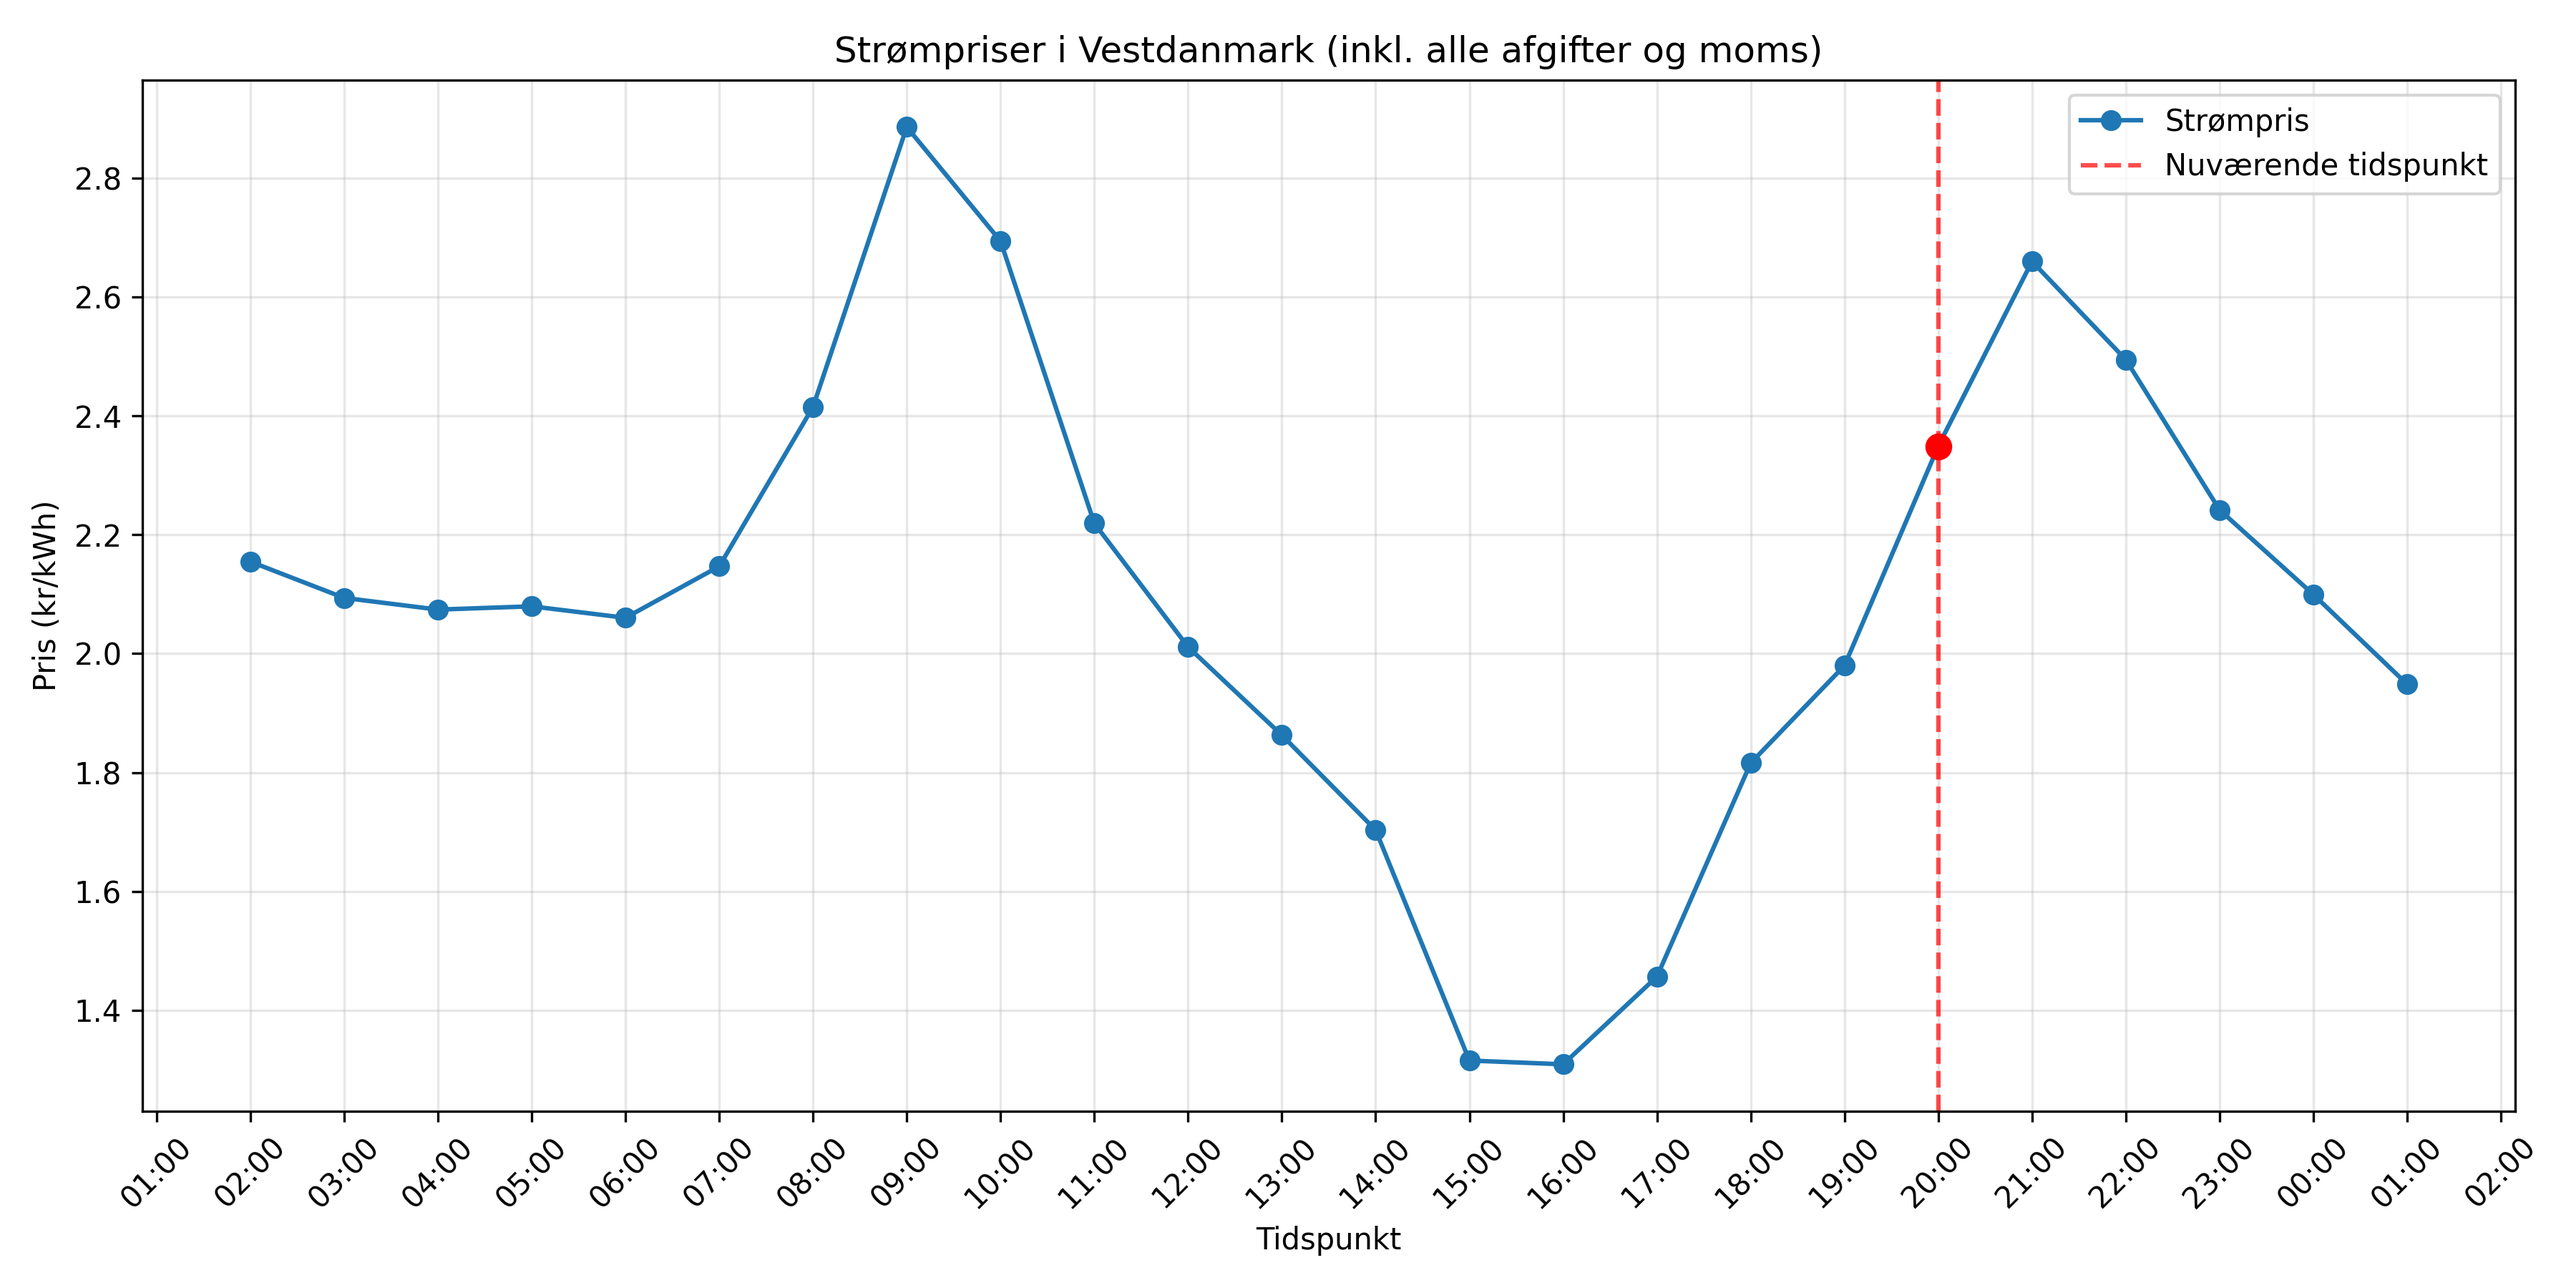
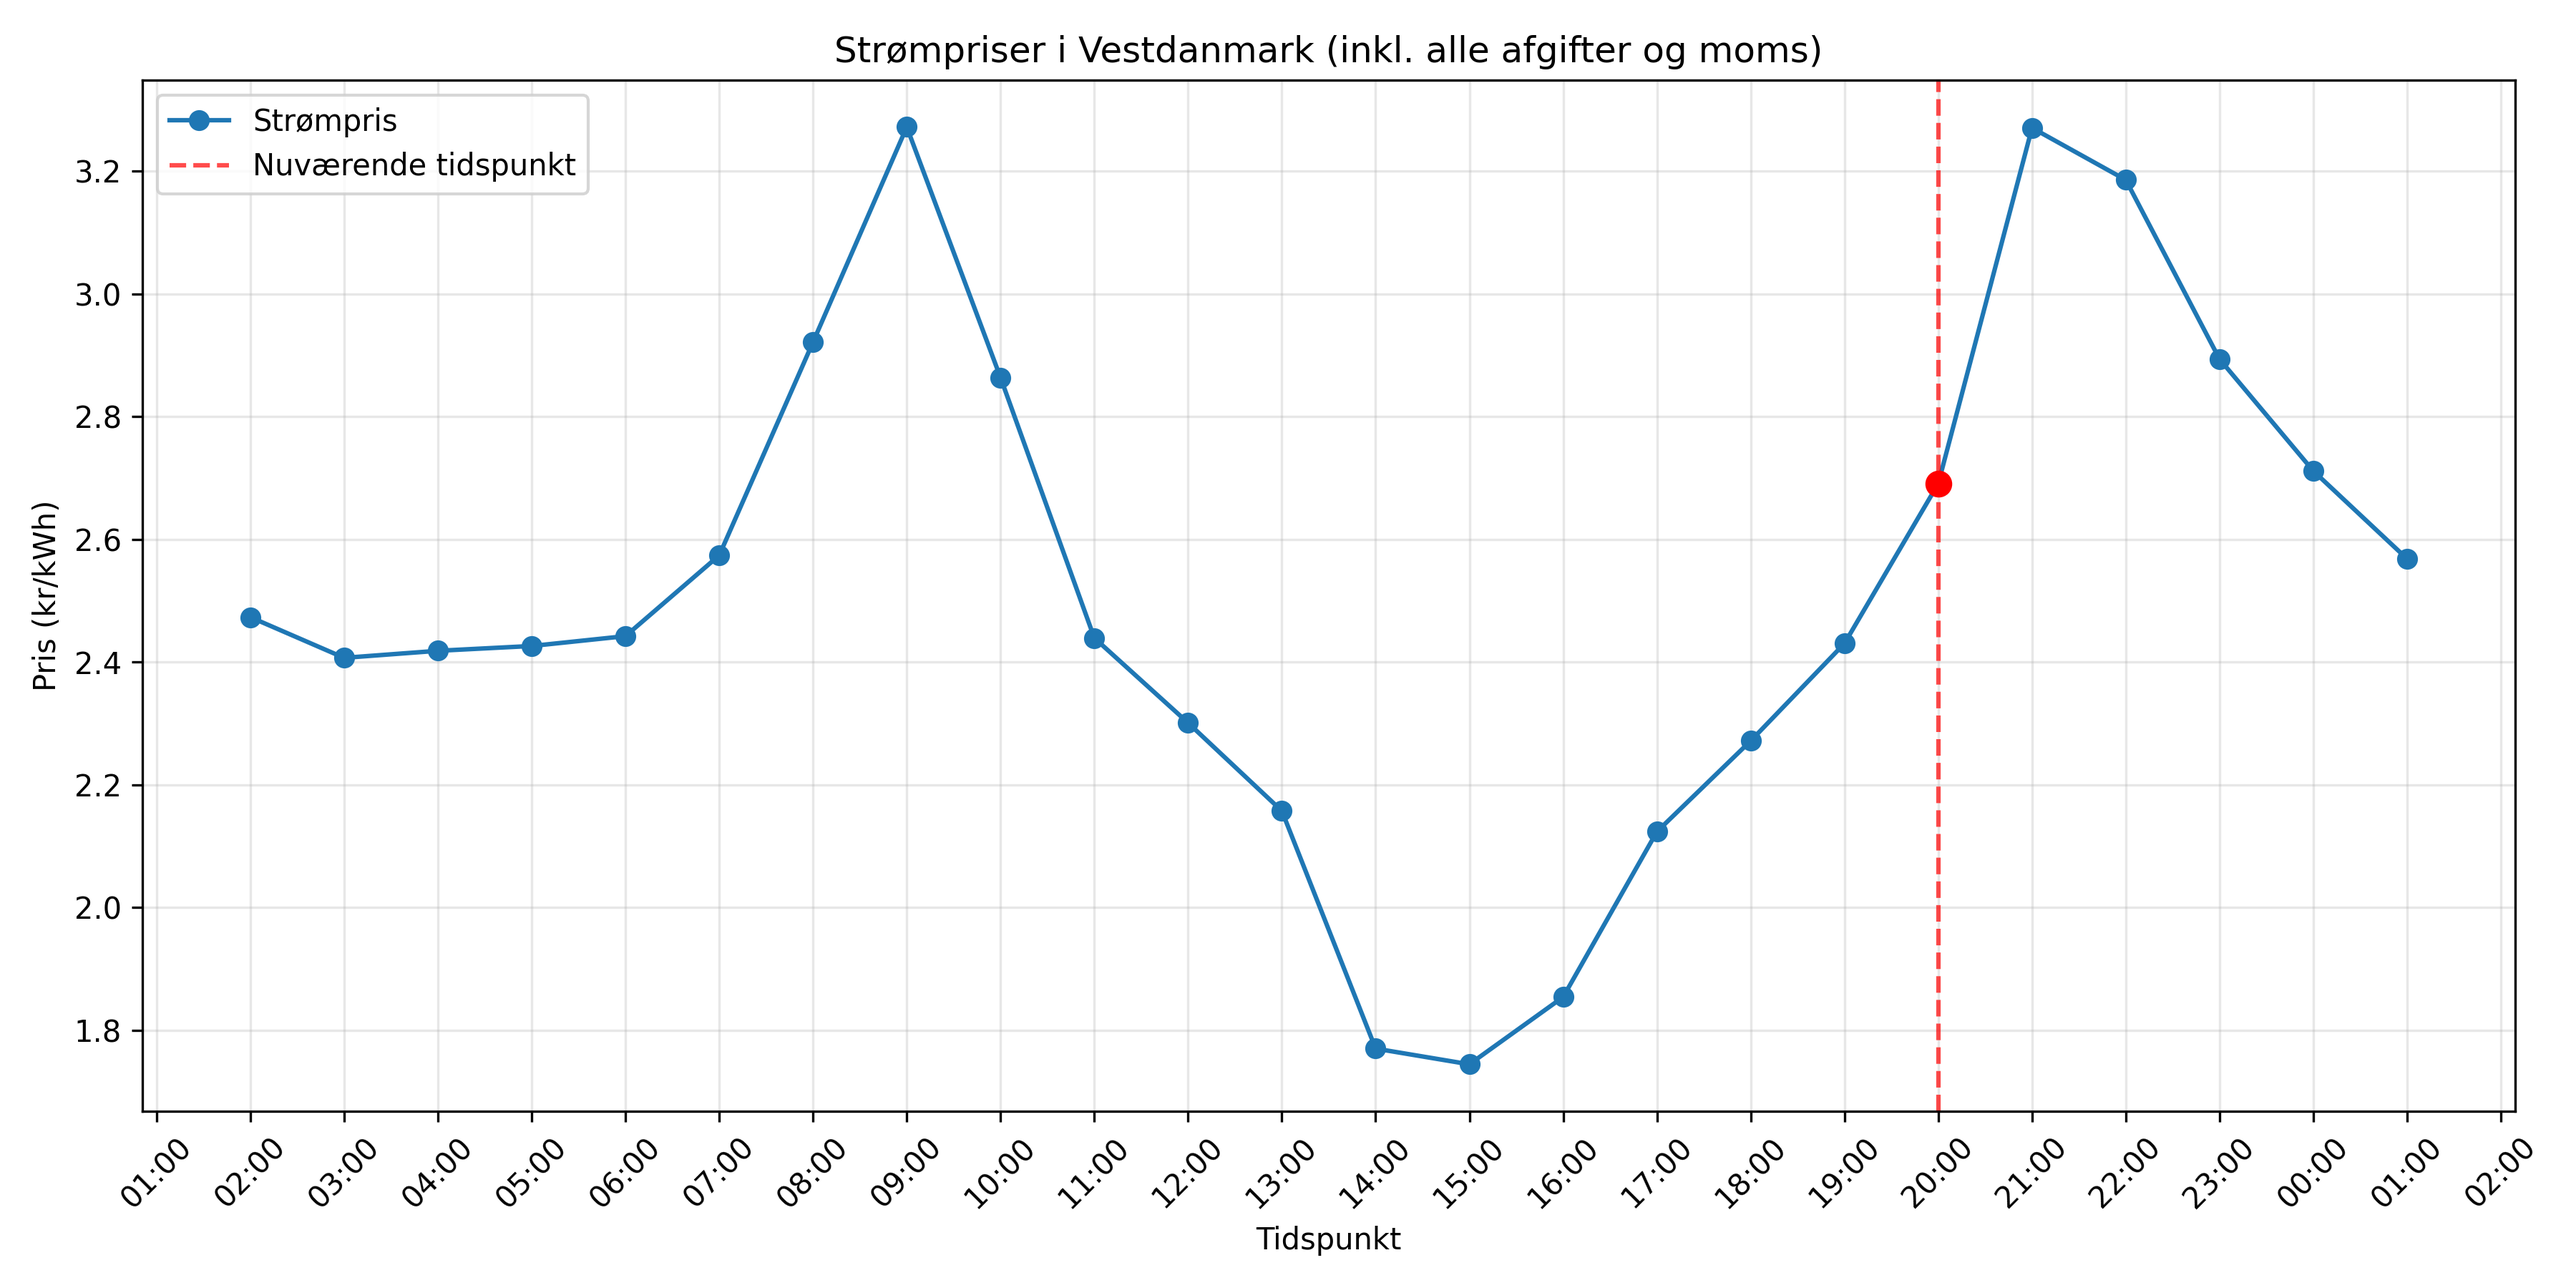
Class til håndtering af tariffer, mm mens de er ukendte, og så er der lavet en lille ændring der gør at vi tager transmisions tariffen med i beregningen. Den skal så også med på classen men det må vi løse senere.

diff --git a/elpris.py b/elpris.py
@@ -6,6 +6,64 @@ import pandas as pd
 import matplotlib.dates as mdates
 import argparse
 
+class TaxAndFees:
+    """
+    A class to encapsulate electricity taxes and fees.
+    """
+
+    def __init__(self, moms_rate=0.25, elafgift=0.699, systemtarif=0.054, nettarif=0.213):
+        """
+        Initializes the TaxAndFees object with the given tax and fee rates.
+
+        Args:
+            moms_rate (float): The VAT rate (default: 0.25).
+            elafgift (float): The electricity tax rate in kr/kWh (default: 0.699).
+            systemtarif (float): The system tariff rate in kr/kWh (default: 0.054).
+            nettarif (float): The network tariff rate in kr/kWh (default: 0.213).
+        """
+        self._moms_rate = moms_rate
+        self._elafgift = elafgift
+        self._systemtarif = systemtarif
+        self._nettarif = nettarif
+
+    def get_moms_rate(self):
+        """
+        Returns the VAT rate.
+
+        Returns:
+            float: The VAT rate.
+        """
+        return self._moms_rate
+
+    def get_elafgift(self):
+        """
+        Returns the electricity tax rate.
+
+        Returns:
+            float: The electricity tax rate in kr/kWh.
+        """
+        return self._elafgift
+
+    def get_systemtarif(self):
+        """
+        Returns the system tariff rate.
+
+        Returns:
+            float: The system tariff rate in kr/kWh.
+        """
+        return self._systemtarif
+
+    def get_nettarif(self):
+        """
+        Returns the network tariff rate.
+
+        Returns:
+            float: The network tariff rate in kr/kWh.
+        """
+        return self._nettarif
+
+
+
 def parse_arguments():
     """Håndterer kommandolinjeargumenter."""
     parser = argparse.ArgumentParser(description='Hent og vis strømpriser for Danmark.')
@@ -53,12 +111,13 @@ def hent_stroem_priser(region):
             
             # Tilføj afgifter (dette er eksempelværdier - brug aktuelle satser)
             moms_rate = 0.25  # 25% moms
-            elafgift = 0.699  # kr/kWh (eksempelværdi)
-            systemtarif = 0.054  # kr/kWh (eksempelværdi)
-            nettarif = 0.213  # kr/kWh (eksempelværdi)
+            elafgift = 0.72  # kr/kWh (eksempelværdi)
+            systemtarif = 0.050  # kr/kWh (eksempelværdi)
+            nettarif = 0.43  # kr/kWh (eksempelværdi)
+            transmis_tarif = 0.07 # Har vi fundet ud af vi app
             
             # Beregn total pris inklusive afgifter
-            df['TotalPris'] = df['SpotPriceDKK_kWh'] + elafgift + systemtarif + nettarif
+            df['TotalPris'] = df['SpotPriceDKK_kWh'] + elafgift + systemtarif + nettarif + transmis_tarif
             df['TotalPrisMedMoms'] = df['TotalPris'] * (1 + moms_rate)
             
             return df
